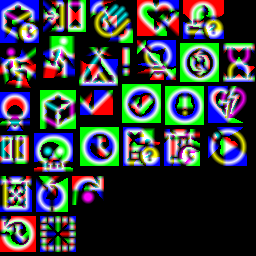
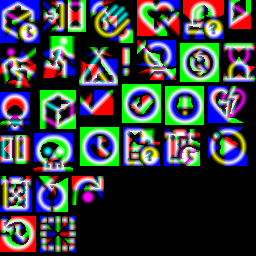
fixed reviewed points

Changed region(s): [[0.875, 0.0, 1.0, 0.125]]

diff --git a/pkg/task/inspection/commonlogk8saudit/contract/timeline_test.go b/pkg/task/inspection/commonlogk8saudit/contract/timeline_test.go
@@ -32,46 +32,28 @@ func TestMustK8sClusterTimeline(t *testing.T) {
 	testCases := []struct {
 		name        string
 		clusterName string
-		wantPanic   bool
-		panicMsg    string
+		wantName    string
 	}{
 		{
 			name:        "valid cluster name",
 			clusterName: "my-cluster",
-			wantPanic:   false,
+			wantName:    "my-cluster",
 		},
 		{
 			name:        "empty cluster name",
 			clusterName: "",
-			wantPanic:   true,
-			panicMsg:    "cluster name must not be empty",
+			wantName:    "unknown",
 		},
 	}
 
 	for _, tc := range testCases {
 		t.Run(tc.name, func(t *testing.T) {
-			if tc.wantPanic {
-				defer func() {
-					r := recover()
-					if r == nil {
-						t.Error("expected panic but did not panic")
-					} else {
-						errStr := fmt.Sprintf("%v", r)
-						if !strings.Contains(errStr, tc.panicMsg) {
-							t.Errorf("expected panic message to contain %q, got %q", tc.panicMsg, errStr)
-						}
-					}
-				}()
-			}
-
 			got := MustK8sClusterTimeline(ctx, tc.clusterName)
-			if !tc.wantPanic {
-				if got == nil {
-					t.Fatal("expected timeline path to be not nil")
-				}
-				if diff := cmp.Diff(tc.clusterName, got.Name.Resolve()); diff != "" {
-					t.Errorf("MustK8sClusterTimeline() mismatch (-want +got):\n%s", diff)
-				}
+			if got == nil {
+				t.Fatal("expected timeline path to be not nil")
+			}
+			if diff := cmp.Diff(tc.wantName, got.Name.Resolve()); diff != "" {
+				t.Errorf("MustK8sClusterTimeline() mismatch (-want +got):\n%s", diff)
 			}
 		})
 	}

diff --git a/pkg/task/inspection/googlecloudlognetworkapiaudit/contract/timeline_path.go b/pkg/task/inspection/googlecloudlognetworkapiaudit/contract/timeline_path.go
@@ -30,6 +30,12 @@ import (
 // MustNEGTimeline returns the hierarchical timeline path for GKE NEGs under the cluster.
 // The NEG is an API resource with apiVersion "networking.gke.io/v1beta1", kind "servicenetworkendpointgroup".
 func MustNEGTimeline(ctx context.Context, clusterName string, namespace string, negName string) *khifilev6.TimelinePath {
+	if namespace == "" {
+		namespace = "unknown"
+	}
+	if negName == "" {
+		negName = "unknown"
+	}
 	clusterPath := commonlogk8saudit_contract.MustK8sClusterTimeline(ctx, clusterName)
 	apiPath := commonlogk8saudit_contract.MustK8sAPIVersionTimeline(ctx, clusterPath, "networking.gke.io/v1beta1")
 	kindPath := commonlogk8saudit_contract.MustK8sKindTimeline(ctx, apiPath, "servicenetworkendpointgroup")
@@ -43,9 +49,9 @@ func MustNEGOperationTimeline(ctx context.Context, negPath *khifilev6.TimelinePa
 		panic("negPath must not be nil")
 	}
 	builder := khictx.MustGetValue(ctx, inspectioncore_contract.Builder)
-	methodNameSplitted := strings.Split(methodName, ".")
 	shortMethodName := "unknown"
-	if len(methodNameSplitted) > 0 {
+	if methodName != "" {
+		methodNameSplitted := strings.Split(methodName, ".")
 		shortMethodName = methodNameSplitted[len(methodNameSplitted)-1]
 	}
 	return builder.TimelineAccumulator.GetPath(negPath, khifilev6.PathSegment{

diff --git a/pkg/task/inspection/commonlogk8saudit/contract/timeline.go b/pkg/task/inspection/commonlogk8saudit/contract/timeline.go
@@ -27,7 +27,7 @@ import (
 // MustK8sClusterTimeline returns the timeline path for the Kubernetes Cluster layer.
 func MustK8sClusterTimeline(ctx context.Context, clusterName string) *khifilev6.TimelinePath {
 	if clusterName == "" {
-		panic("cluster name must not be empty")
+		clusterName = "unknown"
 	}
 
 	builder := khictx.MustGetValue(ctx, inspectioncore_contract.Builder)
@@ -122,6 +122,7 @@ func MustK8sSubresourceTimeline(ctx context.Context, resourceTimeline *khifilev6
 	})
 }
 
+// MustOwnedResourceTimeline returns the timeline path for the owned resource by another resource.
 func MustOwnedResourceTimeline(ctx context.Context, resourceTimeline *khifilev6.TimelinePath, ownedResourceName string) *khifilev6.TimelinePath {
 	if resourceTimeline == nil || resourceTimeline.Type.GetId() != inspectioncore_contract.TimelineTypeResource.GetId() {
 		panic("parent timeline path must be Resource type")
@@ -148,7 +149,7 @@ func MustK8sContainerTimeline(ctx context.Context, podTimeline *khifilev6.Timeli
 // MustResourceTimeline returns the timeline path for a given ResourceIdentity.
 func MustResourceTimeline(ctx context.Context, clusterName string, res *ResourceIdentity) *khifilev6.TimelinePath {
 	if clusterName == "" {
-		panic("cluster name must not be empty")
+		clusterName = "unknown"
 	}
 	if res == nil {
 		panic("resource identity must not be nil")

diff --git a/pkg/task/inspection/googlecloudlogk8snode/contract/timeline_path.go b/pkg/task/inspection/googlecloudlogk8snode/contract/timeline_path.go
@@ -27,6 +27,10 @@ func MustNodeComponentTimeline(ctx context.Context, nodeTimeline *khifilev6.Time
 	if nodeTimeline == nil || nodeTimeline.Type.GetId() != inspectioncore_contract.TimelineTypeResource.GetId() {
 		panic("parent timeline path must be Resource type")
 	}
+	if componentName == "" {
+		componentName = "unknown"
+	}
+
 	builder := khictx.MustGetValue(ctx, inspectioncore_contract.Builder)
 	return builder.TimelineAccumulator.GetPath(nodeTimeline, khifilev6.PathSegment{
 		Name: componentName,

diff --git a/pkg/task/inspection/googlecloudlogonpremapiaudit/contract/timeline_path.go b/pkg/task/inspection/googlecloudlogonpremapiaudit/contract/timeline_path.go
@@ -24,6 +24,10 @@ import (
 
 // MustOnPremProjectTimeline returns the hierarchical timeline path for an On-Prem Project.
 func MustOnPremProjectTimeline(ctx context.Context, project string) *khifilev6.TimelinePath {
+	if project == "" {
+		project = "unknown"
+	}
+
 	builder := khictx.MustGetValue(ctx, inspectioncore_contract.Builder)
 	return builder.TimelineAccumulator.GetPath(nil, khifilev6.PathSegment{
 		Name: project,